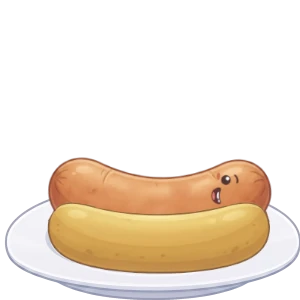
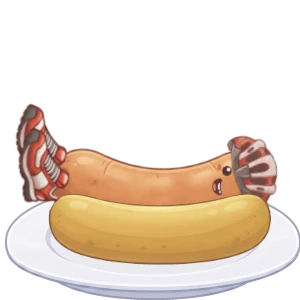
jump game fix

Changed region(s): [[0.03, 0.33, 0.93, 0.93]]

diff --git a/frontend/src/components/HopHop/hopHopGame.vue b/frontend/src/components/HopHop/hopHopGame.vue
@@ -107,7 +107,7 @@ const spawnCoins = (centerX, currentShelfY) => {
   for (let i = 0; i < 3; i++) {
     coinsList.push({
       x: centerX,
-      y: trampolineSurfaceY - 250 - (i * 45),
+      y: trampolineSurfaceY - 270 - (i * 40),
       radius: 14,
       collected: false,
       floatOffset: Math.random() * Math.PI
@@ -225,7 +225,6 @@ const updateGame = (dt = 1) => {
 
     const trampolineSurfaceY = shelfY - config.bounceSurfaceOffset
 
-
     // Касание батута
     if (player.vy > 0 && player.y + player.height / 2 >= trampolineSurfaceY) {
       const centerX = logicalWidth / 2
@@ -237,12 +236,13 @@ const updateGame = (dt = 1) => {
       if (normalizedAngle < 0) normalizedAngle += Math.PI * 2
 
       const isUpright = normalizedAngle < 0.6 || normalizedAngle > (Math.PI * 2 - 0.6)
-      const isHeadLanding = Math.abs(normalizedAngle - Math.PI) < 0.85
+      const isHeadLanding = Math.abs(normalizedAngle - Math.PI) < 1.2
+      const isLeftSideLanding = Math.abs(normalizedAngle - (Math.PI * 1.2)) < 0.75
 
       if (isOnTrampoline) {
-        if (isHeadLanding) {
+        if (isHeadLanding || isLeftSideLanding) {
           player.y = trampolineSurfaceY - player.height / 2
-          triggerGameOver('Упал на головку!')
+          triggerGameOver('Ударился головой!')
           return
         }
 
@@ -253,13 +253,16 @@ const updateGame = (dt = 1) => {
           coinsEarned.value += 2
 
           gameState.value = 'PASSING'
-          passTimer = 120
+          passTimer = 160
           createTrampolineShards(centerX, trampolineSurfaceY)
+
+          // Подпрыгиваем вверх перед полётом в булочку
+          player.vy = -6.2
+          // player.vRot = 0
         } else {
           trampolineBounceAnim = 1
           player.y = trampolineSurfaceY - player.height / 2
 
-          // === Здесь исправление ===
           const wasSpinning = completedFlips.value > 0 || isHolding
 
           player.vRot = 0
@@ -277,22 +280,29 @@ const updateGame = (dt = 1) => {
         triggerGameOver('Промазал мимо батута!')
       }
     }
-}
+  }
 
   // ФАЗА УСПЕШНОГО ПРОХОЖДЕНИЯ
   if (gameState.value === 'PASSING') {
     passTimer -= realDt
 
-    const targetAngle = Math.PI / 2
-    player.rotation += (targetAngle - player.rotation) * 0.2 * realDt
-    player.vRot = 0
+    // Гравитация + полёт
+    player.vy += 0.12 * realDt
+    player.y += player.vy * realDt
+    player.vRot = 0.09
+    player.rotation += player.vRot * realDt
+    // Плавный поворот в горизонталь (в булочку)
+    // const targetAngle = Math.PI / 2
+    // player.rotation += (targetAngle - player.rotation) * 0.12 * realDt
+    // player.vRot = 0
 
-    const bunTargetY = shelfY - config.bounceSurfaceOffset + 90
+    // Цель — центр булочки
+    const bunTargetY = shelfY - config.bounceSurfaceOffset + 78
 
-    if (player.y < bunTargetY) {
-      player.y += 7 * realDt
-    } else {
+    // Когда долетели — останавливаем
+    if (player.y >= bunTargetY) {
       player.y = bunTargetY
+      player.vy = 0
     }
 
     if (passTimer <= 0) {
@@ -368,9 +378,8 @@ const drawGame = () => {
   // Булочка / хот-дог
   const bunX = centerX - bunWidth / 2
   const bunY = shelfY - config.bounceSurfaceOffset + 43
-  const bunTargetY = shelfY - config.bounceSurfaceOffset + 35
-
-  const isSausageLanded = gameState.value === 'PASSING' && player.y >= bunTargetY
+  const bunTargetY = shelfY - config.bounceSurfaceOffset + 78
+  const isSausageLanded = gameState.value === 'PASSING' && player.y >= bunTargetY - 2
 
   if (isSausageLanded && imagesLoaded.hotdog) {
     ctx.drawImage(images.hotdog, bunX, bunY, bunWidth, bunHeight)
@@ -431,7 +440,7 @@ const drawGame = () => {
   })
 
   // Сосиска
-  if (gameState.value !== 'PASSING') {
+  if (!isSausageLanded) {
     ctx.save()
     ctx.translate(player.x, player.y)
     ctx.rotate(player.rotation)
@@ -448,19 +457,15 @@ const drawGame = () => {
       ctx.fillStyle = '#f97316'
       ctx.fillRect(-player.width / 2, -player.height / 2, player.width, player.height)
     }
-    // Показываем FPS (для отладки)
-
 
     ctx.restore()
-    if (isAdmin.value){
-      ctx.fillStyle = 'rgba(0,0,0,0.6)'
 
+    if (isAdmin.value) {
       ctx.fillStyle = '#00ff88'
       ctx.font = 'bold 14px monospace'
       ctx.fillText(`FPS: ${fps}`, 18, 100)
     }
   }
-
 }
 
 // Главный цикл
@@ -477,7 +482,7 @@ const loop = (timestamp) => {
 
   lastTime = timestamp
 
-  // Подсчёт FPS (оставь, если нужно)
+  // Подсчёт FPS
   frameCount++
   fpsTimer += delta
   if (fpsTimer >= 1000) {
@@ -527,7 +532,7 @@ onUnmounted(() => {
 </script>
 
 <template>
-  <div class="relative w-full max-w-[420px] h-screen max-h-[800px] mx-auto overflow-hidden shadow-2xl select-none touch-none bg-slate-900 flex flex-col">
+  <div class="relative w-full max-w-[420px] bg-yellow-100 h-screen max-h-[800px] mx-auto overflow-hidden shadow-2xl select-none touch-none bg-slate-900 flex flex-col">
     <Transition name="fade">
       <div v-if="isLoading" class="fixed inset-0 z-[9999] flex flex-col items-center justify-center bg-gradient-to-br from-[#ABD7DD] via-[#ABD7DD] to-blue-300 text-[#D18900]">
         <div class="relative flex items-center justify-center mb-4">
@@ -546,20 +551,39 @@ onUnmounted(() => {
     </Transition>
 
     <PetHeaderMenu/>
-
+    <RouterLink to="/" class="absolute z-20 left-2 top-30 opacity-80">
+      <div class="bg-[#fff6ef] h-15 w-15 flex flex-col items-center justify-center p-0.5 rounded-xl border-2 border-[#f7c9a5] active:scale-95 cursor-pointer shadow-inner">
+        <div class="w-10 h-10 bg-contain bg-no-repeat bg-center" :style="{backgroundImage: `url('/gamePlay/back_icon.webp?v=${APP_VERSION}')`}"></div>
+      </div>
+    </RouterLink>
     <div v-if="gameState === 'PASSING'" class="absolute inset-x-0 top-36 z-30 flex justify-center pointer-events-none">
       <div class="bg-emerald-500/90 text-white font-black text-2xl px-6 py-2 rounded-2xl shadow-xl animate-bounce border-2 border-emerald-300">
         В булочку! Отлично!
       </div>
     </div>
 
-    <div class="absolute inset-0 z-0 bg-white overflow-hidden pointer-events-none">
-      <div
-          class="absolute bottom-60 left-1/2 -translate-x-1/2 w-60 h-60 bg-contain bg-bottom bg-no-repeat"
-          :style="{
-          backgroundImage: `url('/jumpGame/jumping_game_menu_background.webp?v=${APP_VERSION}')`,
-        }"
-      ></div>
+    <div class="absolute bottom-50 left-1/2 -translate-x-1/2 w-70 h-70">
+
+      <img class="relative" :src="`/jumpGame/jumping_game_menu_background.webp?v=${APP_VERSION}`" alt="">
+      <div class="absolute flex flex-col gap-1 mt-1 items-center top-10 right-12">
+        <div>
+          <span>Рекорд:</span>
+          <span class="text-amber-400">{{highScore}}</span>
+        </div>
+
+        <div v-if="gameState === 'PLAYING'" class="flex flex-col gap-1 items-center justify-center">
+          <div class="text-xs font-black text-amber-400 uppercase tracking-widest">
+            Уровень {{ level }}
+          </div>
+          <div
+              class="text-xs p-1 rounded-2xl bg-slate-800/90 backdrop-blur-md font-extrabold transition-colors duration-150"
+              :class="isLevelGoalReached ? 'text-emerald-400 animate-pulse' : 'text-slate-200'"
+          >
+            Сальто: {{ completedFlips }} / {{ level }}
+          </div>
+        </div>
+      </div>
+
     </div>
 
     <div class="absolute inset-0 z-0 bg-transparent overflow-hidden pointer-events-none">
@@ -581,18 +605,6 @@ onUnmounted(() => {
         @touchend="stopFlip"
         @touchcancel="stopFlip"
     ></canvas>
-
-    <div v-if="gameState === 'PLAYING'" class="absolute top-24 left-2 z-20 bg-slate-800/90 backdrop-blur-md px-5 py-2.5 rounded-2xl border border-slate-700 shadow-xl pointer-events-none text-center flex flex-col items-center gap-1">
-      <div class="text-xs font-black text-amber-400 uppercase tracking-widest">
-        Уровень {{ level }}
-      </div>
-      <div
-          class="text-sm font-extrabold transition-colors duration-150"
-          :class="isLevelGoalReached ? 'text-emerald-400 animate-pulse' : 'text-slate-200'"
-      >
-        Сальто: {{ completedFlips }} / {{ level }}
-      </div>
-    </div>
 
     <div v-if="gameState === 'MENU'" class="absolute inset-0 bg-black/60 backdrop-blur-md z-40 flex items-center justify-center p-5 pointer-events-auto">
       <div class="bg-slate-800 border border-slate-700 w-full max-w-[300px] p-7 rounded-3xl text-center shadow-2xl flex flex-col gap-4 relative">

diff --git a/frontend/src/components/CatchTheFood/CatchTheFoodGame.vue b/frontend/src/components/CatchTheFood/CatchTheFoodGame.vue
@@ -562,10 +562,19 @@ onUnmounted(() => {
     <!-- HUD -->
     <div v-if="gameState === 'PLAYING'" class="absolute top-4 left-4 right-4 z-20 pointer-events-none flex flex-col gap-2 mt-22">
       <div class="flex justify-between items-center">
-        <div class="bg-white/85 backdrop-blur-sm px-3.5 py-1.5 rounded-xl flex flex-col shadow-sm">
-          <span class="text-[11px] text-slate-600 font-semibold uppercase">Очки</span>
-          <span class="text-xl font-extrabold text-slate-900">{{ score }}</span>
+        <div class="flex gap-1 flex-col">
+          <div class="bg-white/85 backdrop-blur-sm px-3.5 py-1.5 rounded-xl flex flex-col shadow-sm">
+            <span class="text-[11px] text-slate-600 font-semibold uppercase">Очки</span>
+            <span class="text-xl font-extrabold text-slate-900">{{ score }}</span>
+
+          </div>
+          <RouterLink to="/" class="pointer-events-auto opacity-80">
+            <div class="bg-[#fff6ef] h-15 w-15 flex flex-col items-center justify-center p-0.5 rounded-xl border-2 border-[#f7c9a5] active:scale-95 cursor-pointer shadow-inner">
+              <div class="w-10 h-10 bg-contain bg-no-repeat bg-center" :style="{backgroundImage: `url('/gamePlay/back_icon.webp?v=${APP_VERSION}')`}"></div>
+            </div>
+          </RouterLink>
         </div>
+
         <div class="flex gap-1.5 items-center bg-white/85 backdrop-blur-sm px-3 py-2 rounded-xl">
           <img
               v-for="i in maxLives"

diff --git a/frontend/src/scripts/dragAndDrop.js b/frontend/src/scripts/dragAndDrop.js
@@ -60,6 +60,7 @@ export function handleMove(event,itemType ,Item) {
 
     if (isInside) {
         isHovered.value = true
+        gameData.sleep = false
         if (itemType === 'shower') {
             batheStatus.value = true
             if (statusFoam.value === true) {
